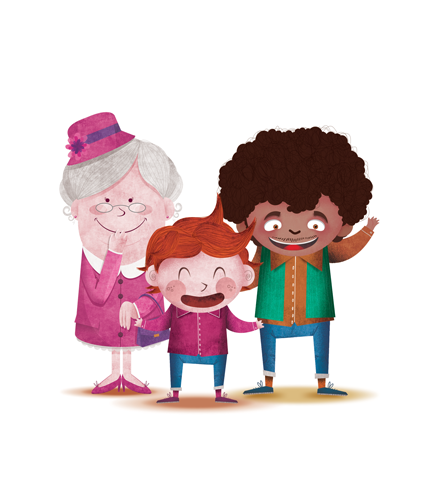
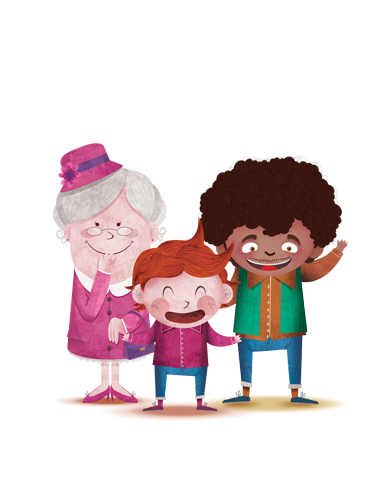
responsive-illustation

Changed region(s): [[0.1247, 0.2147, 0.9039, 0.8589]]

diff --git a/app/assets/stylesheets/components/_banner.scss b/app/assets/stylesheets/components/_banner.scss
@@ -1,9 +1,4 @@
 // rules for composteurs index / index / root page
-@media (min-width: 1024px) {
-  .compost-section {
-    height: 50vh;
-  }
-}
 .home-banner {
   background-color: white;
   padding: 0 50px;
@@ -15,14 +10,25 @@
   align-items: center;
   justify-content: space-around;
   width: 100%;
-  img {
+  .illu-banner {
     height: 100%;
+    display: flex;
+    justify-content: space-between;
+    position: absolute;
+    width: 100%;
+    img {
+      height: 100%;
+    }
   }
   .middle {
     display: flex;
     flex-direction: column;
-    justify-content: space-between;
+    justify-content: space-around;
     height: 30vh;
+    background: #ffffffc9;
+    border-radius: 20px;
+    box-shadow: 0 0 20px #ffffffc9;
+    z-index: 1;
     h1 {
       color: $pau-dark-blue;
       text-shadow: 1px 1px 3px rgba(0,0,0,0.2);
@@ -35,7 +41,7 @@
       color: $pau-dark-blue;
       width: 400px;
       text-shadow: 1px 1px 3px rgba(0,0,0,0.2);
-      margin: auto;
+      margin: 0 auto;
     }
   }
   // .version-beta {
@@ -98,14 +104,92 @@
 }
 
 // MEDIA QUERIES
+@media (min-width: 1024px) {
+  .compost-section {
+    height: 50vh;
+  }
+}
+@media (max-width: 1024px) {
+  .home-banner {
+    height: calc(100vh - 40vh - 65px);
+    .middle {
+      position: absolute;
+      padding: 10px;
+      h1 {
+        width: 300px;
+        font-size: 27px;
+      }
+      p {
+        width: 300px;
+      }
+    }
+    .illu-banner {
+      height: 100%;
+      width: 100%;
+      display: flex;
+      justify-content: space-around;
+    }
+  }
+  .section-grey.compost-section {
+    height: 40vh;
+    padding: 0;
+    justify-content: space-around;
+    .how-to-paragraphs p {
+      margin: 0 30px;
+    }
+    .section-title {
+      font-size: 20px;
+    }
+    .button-in-paragraph.cta-compost {
+      margin: 20px auto;
+    }
+  }
+}
 @media (max-width: 600px) {
   .home-banner {
     margin-top: 100px;
-    h1 {
-      font-size: 25px;
+    height: calc(100vh - 30vh - 100px);
+    flex-direction: column;
+    padding: 10px 20px;
+    .illu-banner {
+      display: flex;
+      position: relative;
+      height: 40%;
+      img {
+        height: 100%;
+      }
     }
+    .middle {
+      width: 100%;
+      position: relative;
+      padding: 30px 0 0 0;
+      height: 60%;
+      h1 {
+        font-size: 25px;
+        margin: 0 auto;
+        width: 100%;
+      }
+      p {
+        width: 100%;
+        font-size: 15px;
+      }
+    }
+  }
+  .section-grey.compost-section {
+    height: 30vh;
+    justify-content: center;
     p {
-      width: 85vw;
+      display: none;
+    }
+    a {
+      margin: auto;
+    }
+    .section-title {
+      font-size: 17px;
+      margin: 10px auto;
+    }
+    .button-in-paragraph.cta-compost {
+      margin: 10px auto;
     }
   }
 }

diff --git a/app/assets/stylesheets/components/_section.scss b/app/assets/stylesheets/components/_section.scss
@@ -16,7 +16,7 @@
   .how-to-paragraphs {
     display: flex;
     justify-content: space-between;
-    width: 70%;
+    width: 75%;
     margin: 0;
     p {
       width: 50%;
